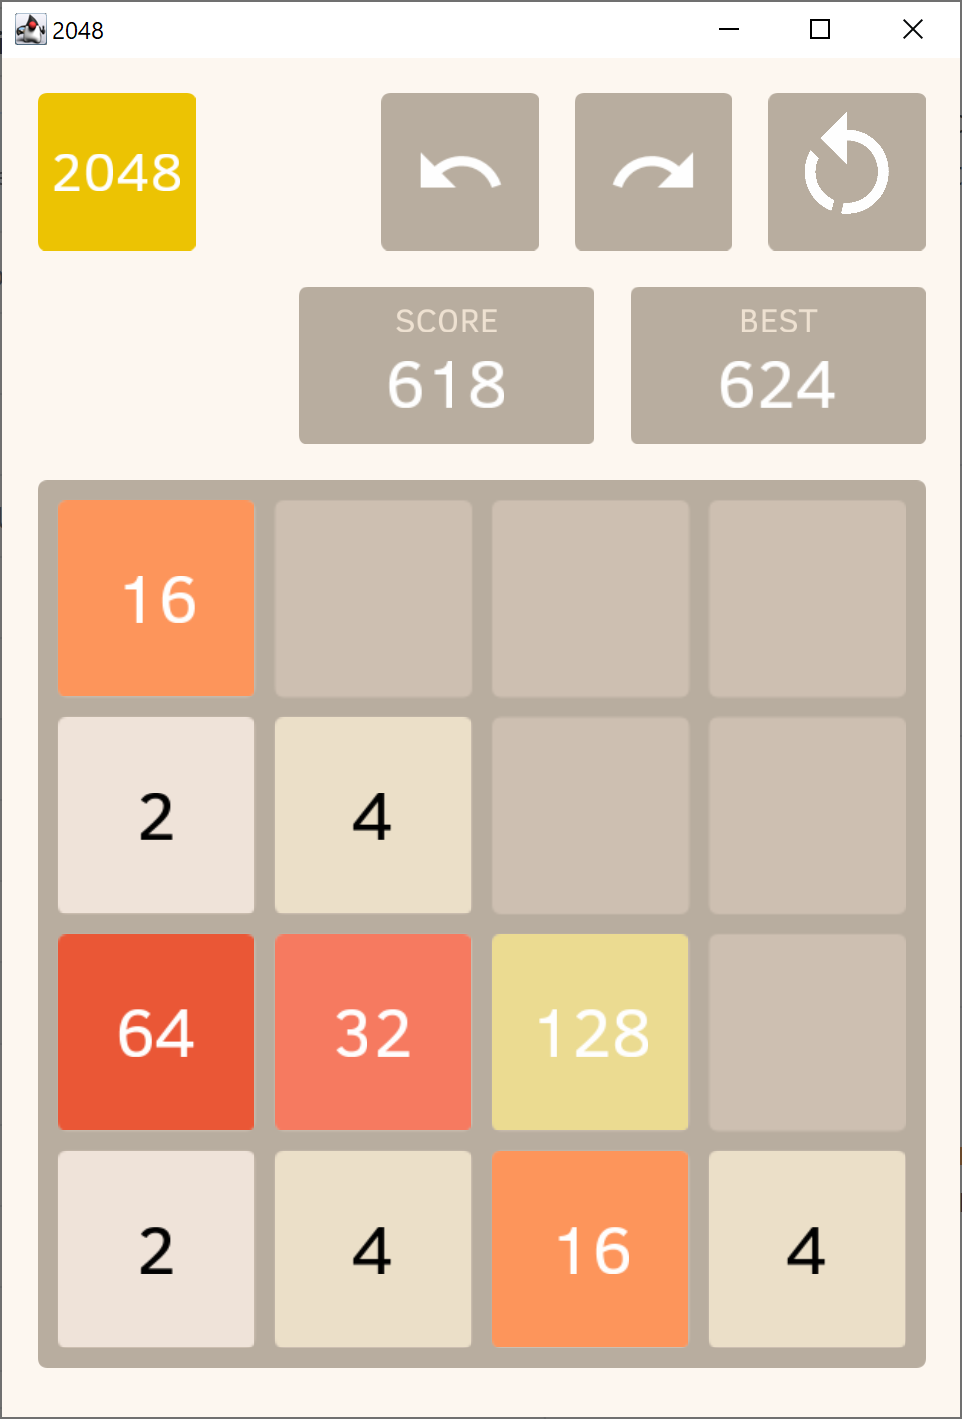
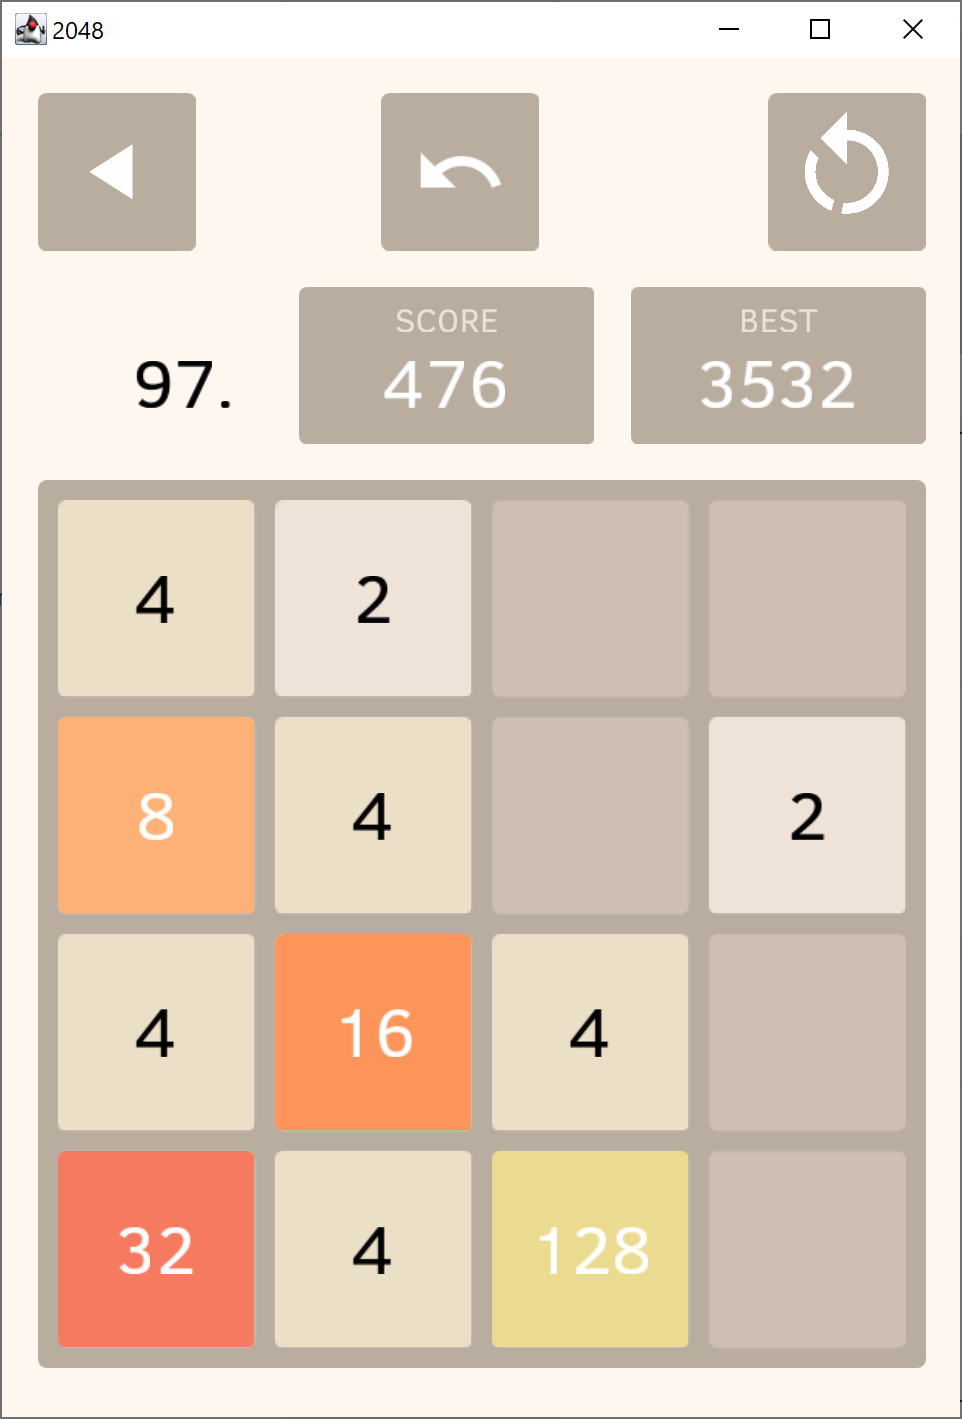
Show move number

diff --git a/src/commonMain/kotlin/org/andstatus/game2048/GameView.kt b/src/commonMain/kotlin/org/andstatus/game2048/GameView.kt
@@ -30,6 +30,7 @@ class GameView(val gameStage: Stage, val animateViews: Boolean = true) {
 
     var presenter: Presenter by Delegates.notNull()
 
+    private var moveNumber: Text by Delegates.notNull()
     private var score: Text by Delegates.notNull()
     private var bestScore: Text by Delegates.notNull()
 
@@ -215,6 +216,13 @@ class GameView(val gameStage: Stage, val animateViews: Boolean = true) {
             alignTopToTopOf(bgScore, 12.0)
         }
 
+        moveNumber = gameStage.text("1.", cellSize * 0.5, Colors.BLACK, font) {
+            setTextBounds(Rectangle(0.0, 0.0, bgScore.width, cellSize - 24.0))
+            format = format.copy(align = Html.Alignment.MIDDLE_CENTER)
+            positionX(leftIndent)
+            alignTopToTopOf(bgScore, 12.0)
+        }.addTo(gameStage)
+
         gameStage.roundRect(boardWidth, boardWidth, buttonRadius, color = bgColor) {
             position(leftIndent, topIndent)
         }
@@ -269,6 +277,7 @@ class GameView(val gameStage: Stage, val animateViews: Boolean = true) {
         show(redoButton, ButtonsEnum.REDO)
         show(restartButton, ButtonsEnum.RESTART)
 
+        moveNumber.text = presenter.model.moveNumber.toString() + "."
         bestScore.text = presenter.bestScore.toString()
         score.text = presenter.score.toString()
 

diff --git a/src/commonMain/kotlin/org/andstatus/game2048/Model.kt b/src/commonMain/kotlin/org/andstatus/game2048/Model.kt
@@ -1,11 +1,17 @@
 package org.andstatus.game2048
 
+import com.soywiz.kmem.isOdd
 import kotlin.random.Random
 
 class Model {
     val history: History = History()
     var board: Board = Board()
 
+    val moveNumber: Int get() {
+        val currentIndex = if(history.historyIndex < 0) history.currentGame.playerMoves.size else history.historyIndex
+        if (currentIndex < 2 ) return 1
+        return (if (currentIndex.isOdd) (currentIndex + 1) else (currentIndex + 2)) / 2
+    }
     val bestScore get() = history.bestScore
     val score get() = board.score
 

diff --git a/README.md b/README.md
@@ -25,6 +25,7 @@ If you found the project useful, please
 
 * Unlimited and animated Undo and Redo.
 * Auto replay current game forward and backwards, stop at any position and continue from that place, overriding history.
+* Move number is shown.
 
 # How to run the project
 
